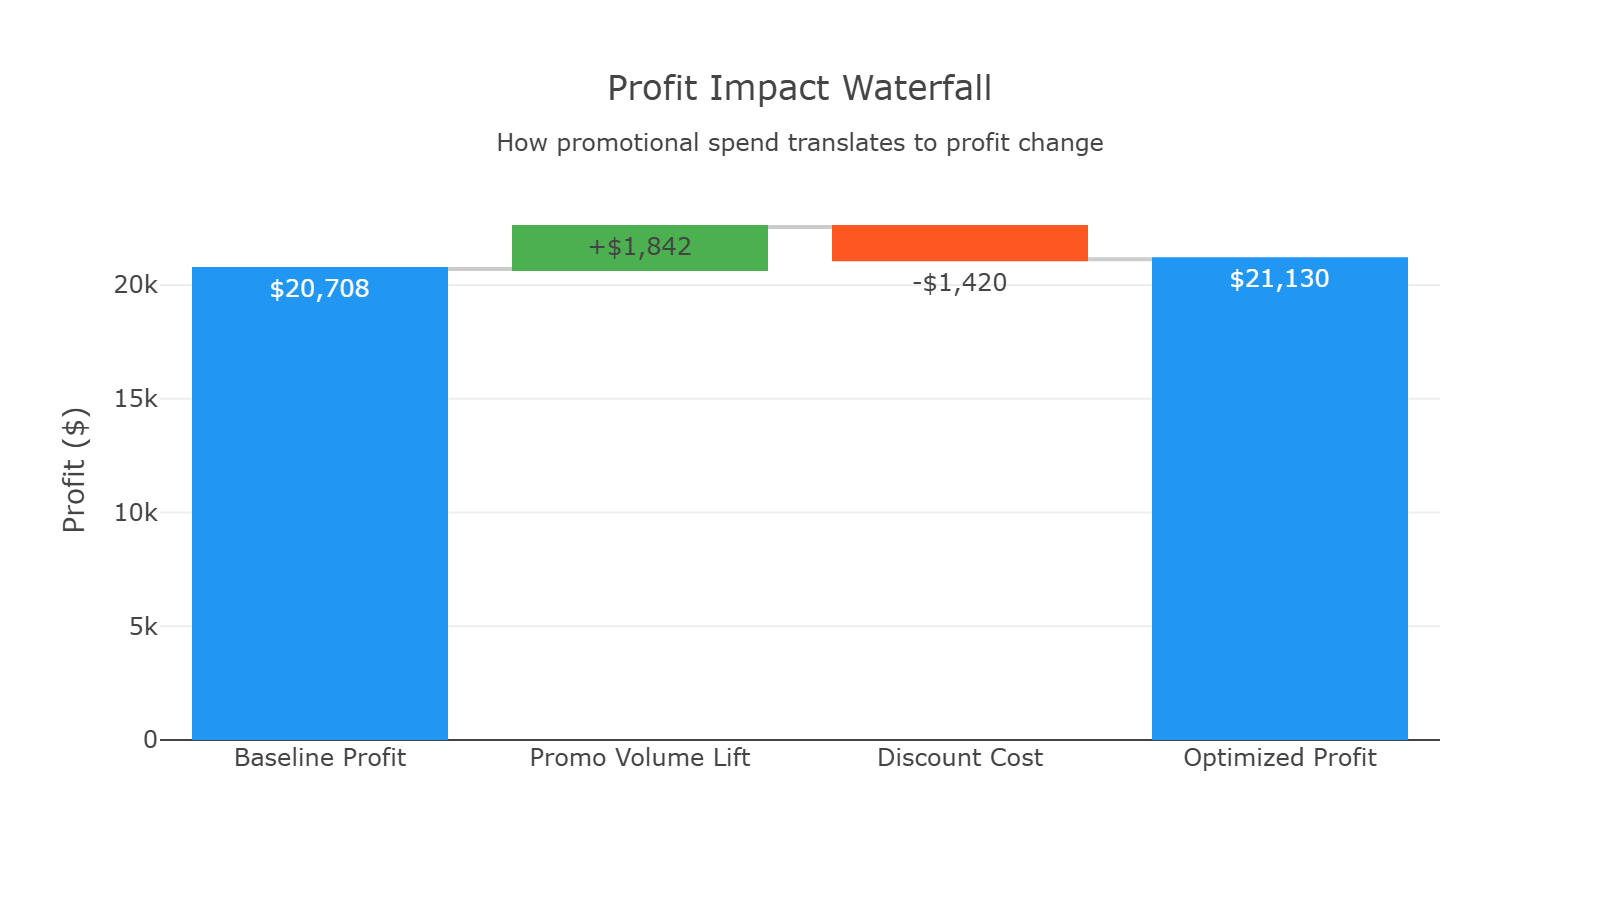
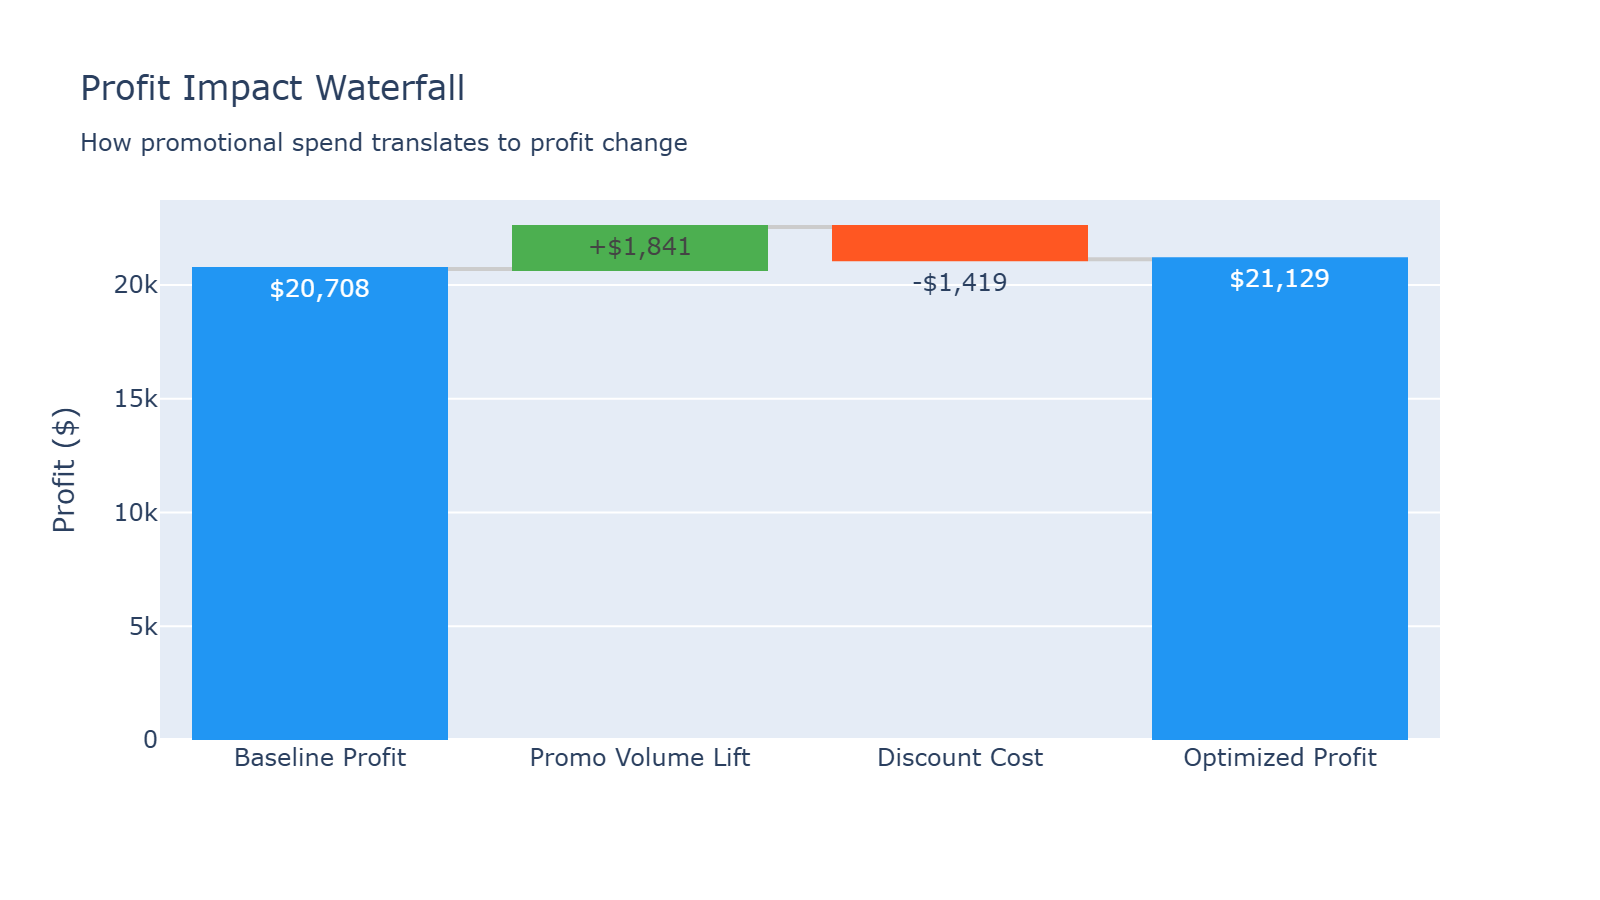
Update budget allocation views, add chart utility, and update README

diff --git a/app/streamlit_app.py b/app/streamlit_app.py
@@ -35,7 +35,7 @@ st.set_page_config(
 
 @st.cache_data
 def load_data():
-    budget_path = PROCESSED_DIR / "budget_allocation.parquet"
+    budget_path = PROCESSED_DIR / "optimization_results.parquet"
     return {
         "rfm": pd.read_parquet(PROCESSED_DIR / "rfm_segmented.parquet"),
         "elasticity": pd.read_parquet(PROCESSED_DIR / "elasticity_results.parquet"),
@@ -346,36 +346,63 @@ elif page == "Recommendations":
 
     # Budget allocation optimizer
     st.subheader("Budget Allocation Optimizer")
-    promo_budget = st.slider("Total promo budget ($)", 10_000, 250_000, 50_000, step=5_000)
-    budget_inputs = run_optimization(promo_budget)
-    budget_plan = budget_inputs[0] if isinstance(budget_inputs, tuple) else budget_inputs
+    promo_budget = st.slider("Total promo budget ($)", 1_000, 50_000, 5_000, step=1_000)
+
+    try:
+        budget_result = run_optimization(budget=promo_budget)
+        # run_optimization returns a DataFrame directly
+        budget_plan = budget_result if isinstance(budget_result, pd.DataFrame) else budget_result[0]
+    except Exception as e:
+        st.error(f"Optimization error: {e}")
+        budget_plan = pd.DataFrame()
 
     if budget_plan.empty:
         st.info("No budget allocation plan could be generated from the current scenarios.")
     else:
-        budget_metrics = st.columns(4)
-        budget_metrics[0].metric("Budget", f"${promo_budget:,.0f}")
-        budget_metrics[1].metric("Allocated", f"${budget_plan['allocated_budget'].sum():,.0f}")
-        budget_metrics[2].metric("Expected Return", f"${budget_plan['expected_objective_value'].sum():,.0f}")
-        budget_metrics[3].metric("Top Allocation", f"{budget_plan.iloc[0]['allocation_ratio']:.0%}")
+        # Filter to non-zero allocations
+        active = budget_plan[budget_plan["optimal_discount_pct"] > 0.1].copy()
 
-        budget_fig = plot_optimal_allocation(budget_plan)
-        if budget_fig:
-            st.plotly_chart(budget_fig, use_container_width=True)
+        if active.empty:
+            st.info("Optimizer found no profitable discount allocations at this budget level.")
+        else:
+            active = active.sort_values("profit_change_pct", ascending=False)
 
-        st.dataframe(
-            budget_plan[[
-                "category", "segment", "promo_type", "allocation_ratio",
-                "allocated_budget", "expected_objective_value", "expected_return_on_spend",
-            ]].style.format({
-                "allocation_ratio": "{:.0%}",
-                "allocated_budget": "${:,.0f}",
-                "expected_objective_value": "${:,.0f}",
-                "expected_return_on_spend": "{:.2f}x",
-            }),
-            use_container_width=True,
-            hide_index=True,
-        )
+            budget_metrics = st.columns(4)
+            budget_metrics[0].metric("Budget", f"${promo_budget:,.0f}")
+            budget_metrics[1].metric("Spent", f"${active['promo_cost'].sum():,.0f}")
+            budget_metrics[2].metric(
+                "Profit Lift",
+                f"${active['profit_change'].sum():,.0f}",
+            )
+            budget_metrics[3].metric(
+                "Top Discount",
+                f"{active.iloc[0]['optimal_discount_pct']:.1f}%",
+            )
+
+            fig = plot_optimal_allocation(budget_plan)
+            if fig:
+                st.plotly_chart(fig, use_container_width=True)
+
+            st.dataframe(
+                active[[
+                    "COMMODITY_DESC", "SEGMENT_NAME", "optimal_discount_pct",
+                    "volume_lift_pct", "profit_change_pct", "promo_cost",
+                ]].rename(columns={
+                    "COMMODITY_DESC": "Category",
+                    "SEGMENT_NAME": "Segment",
+                    "optimal_discount_pct": "Discount %",
+                    "volume_lift_pct": "Volume Lift %",
+                    "profit_change_pct": "Profit Change %",
+                    "promo_cost": "Promo Cost ($)",
+                }).style.format({
+                    "Discount %": "{:.1f}%",
+                    "Volume Lift %": "{:+.1f}%",
+                    "Profit Change %": "{:+.1f}%",
+                    "Promo Cost ($)": "${:,.0f}",
+                }),
+                use_container_width=True,
+                hide_index=True,
+            )
 
     # Top opportunities
     st.subheader("Highest ROI Promotion Opportunities")

diff --git a/src/utils.py b/src/utils.py
@@ -1,5 +1,47 @@
-"""Shared utilities for the pricing optimization project."""
+"""Shared utility functions."""
+
+import pandas as pd
+import numpy as np
+from pathlib import Path
 
 
-def identity(value):
-    return value
+def format_currency(val):
+    """Format number as currency string."""
+    if abs(val) >= 1_000_000:
+        return f"${val / 1_000_000:.1f}M"
+    elif abs(val) >= 1_000:
+        return f"${val / 1_000:.1f}K"
+    return f"${val:.2f}"
+
+
+def format_pct(val):
+    """Format number as percentage string."""
+    return f"{val:.1f}%"
+
+
+def safe_divide(a, b, default=0):
+    """Divide a by b, returning default if b is zero."""
+    return a / b if b != 0 else default
+
+
+def get_top_categories(master_df, n=10):
+    """Get top n product categories by transaction volume."""
+    return (
+        master_df.groupby("COMMODITY_DESC")["BASKET_ID"]
+        .nunique()
+        .nlargest(n)
+        .index.tolist()
+    )
+
+
+def load_all_results():
+    """Load all processed results for the Streamlit app."""
+    p = Path("data/processed")
+    return {
+        "master": pd.read_parquet(p / "master_transactions.parquet"),
+        "rfm": pd.read_parquet(p / "rfm_segmented.parquet"),
+        "elasticity": pd.read_parquet(p / "elasticity_results.parquet"),
+        "weekly": pd.read_parquet(p / "weekly_demand.parquet"),
+        "simulation": pd.read_parquet(p / "simulation_results.parquet"),
+        "optimal": pd.read_parquet(p / "optimal_promos.parquet"),
+    }

diff --git a/src/chart_utils.py b/src/chart_utils.py
@@ -1,0 +1,34 @@
+"""Shared chart saving utility for HTML and PNG export."""
+
+from pathlib import Path
+
+OUTPUT_DIR = Path("outputs/figures")
+OUTPUT_DIR.mkdir(parents=True, exist_ok=True)
+
+
+def save_chart(fig, name, width=None, height=None):
+    """
+    Save a Plotly figure as HTML (always) and PNG (if kaleido is installed).
+
+    Args:
+        fig: Plotly figure object
+        name: filename without extension (e.g. 'elasticity_heatmap')
+        width/height: optional overrides for PNG export
+    """
+    html_path = OUTPUT_DIR / f"{name}.html"
+    png_path = OUTPUT_DIR / f"{name}.png"
+
+    fig.write_html(str(html_path))
+
+    try:
+        kwargs = {"scale": 2}
+        if width:
+            kwargs["width"] = width
+        if height:
+            kwargs["height"] = height
+        fig.write_image(str(png_path), **kwargs)
+        print(f"  Saved: {png_path}")
+    except Exception:
+        print(f"  Saved: {html_path} (PNG skipped — install kaleido)")
+
+    return html_path, png_path

diff --git a/README.md b/README.md
@@ -153,8 +153,8 @@ Display placement has 2–4x more impact on demand than price discounts or maile
 ## Setup
 
 ```bash
-git clone https://github.com/YOUR_USERNAME/retail-promotion-intelligence.git
-cd retail-promotion-intelligence
+git clone https://github.com/YOUR_USERNAME/Retail-Promotion-Intelligence-Platform.git
+cd Retail-Promotion-Intelligence-Platform
 
 pip install -r requirements.txt
 
@@ -208,6 +208,11 @@ retail-promotion-intelligence/
 
 ---
 
+## Resume One-Liner
+
+> Built a retail promotion intelligence platform using econometric modeling (log-log OLS), customer segmentation (RFM + K-Means), and constrained budget optimization (SciPy SLSQP) on 2 years of household transaction data -- with an interactive Streamlit dashboard that identifies optimal promo strategies per segment, showing that shallow 5% discounts yield 4.9x ROI while BOGO offers destroy 269% of margin despite 294% volume lift.
+
+---
 ## Future Work
 
 - **Time-series demand forecasting** (Prophet/LightGBM) to predict baseline demand before overlaying promo effects